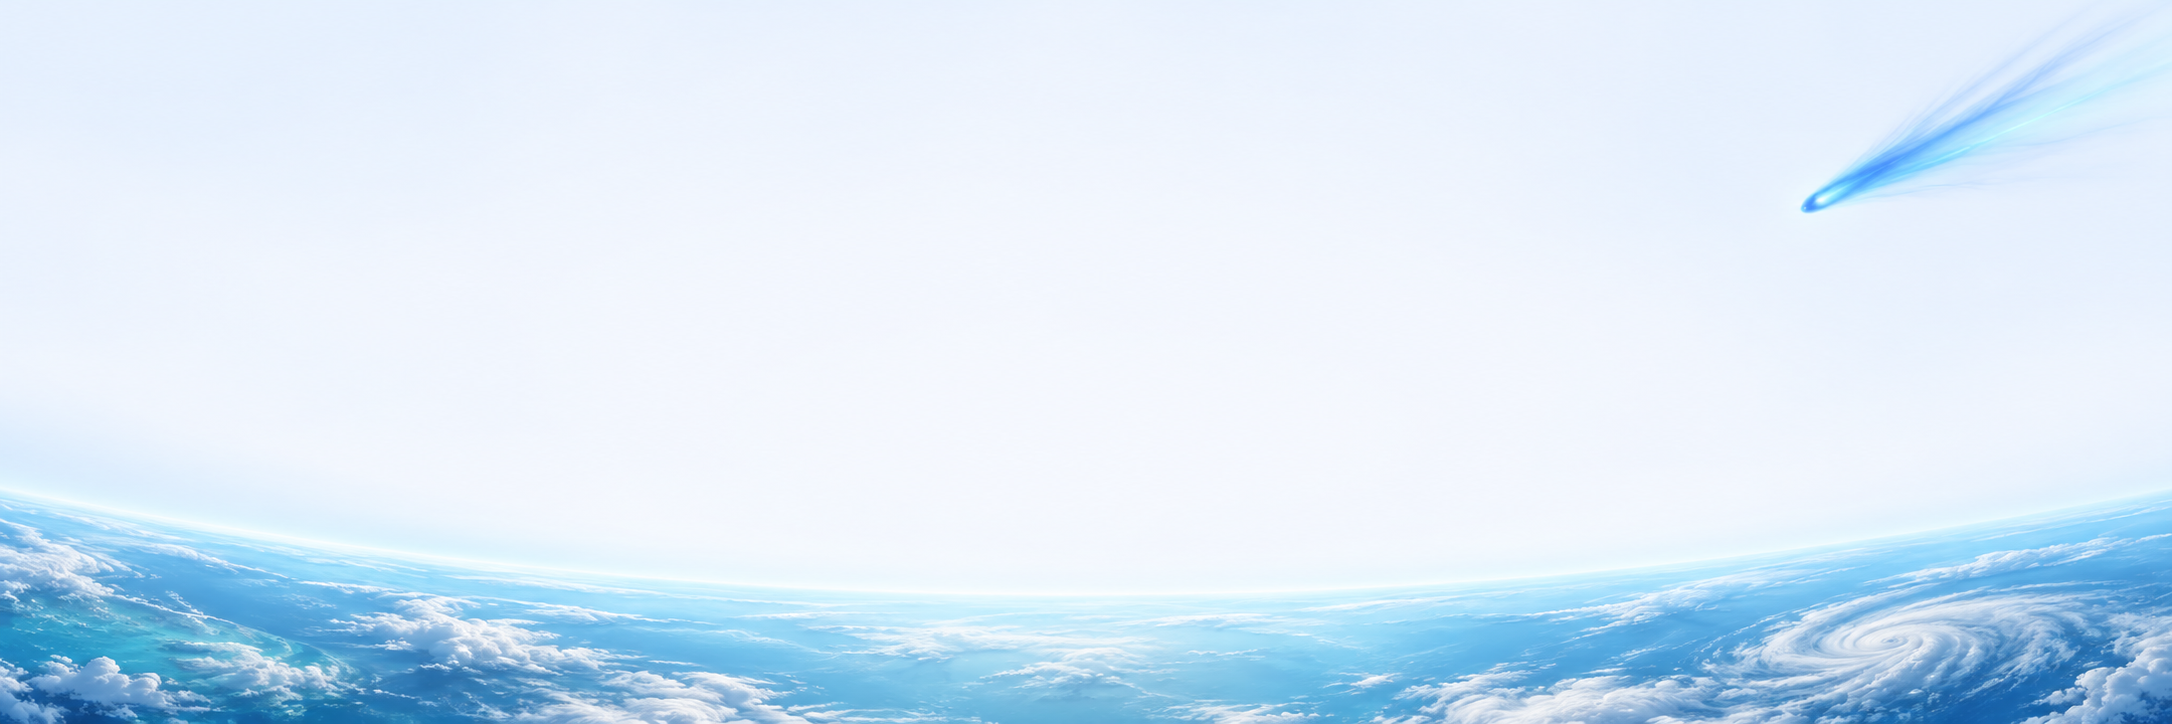
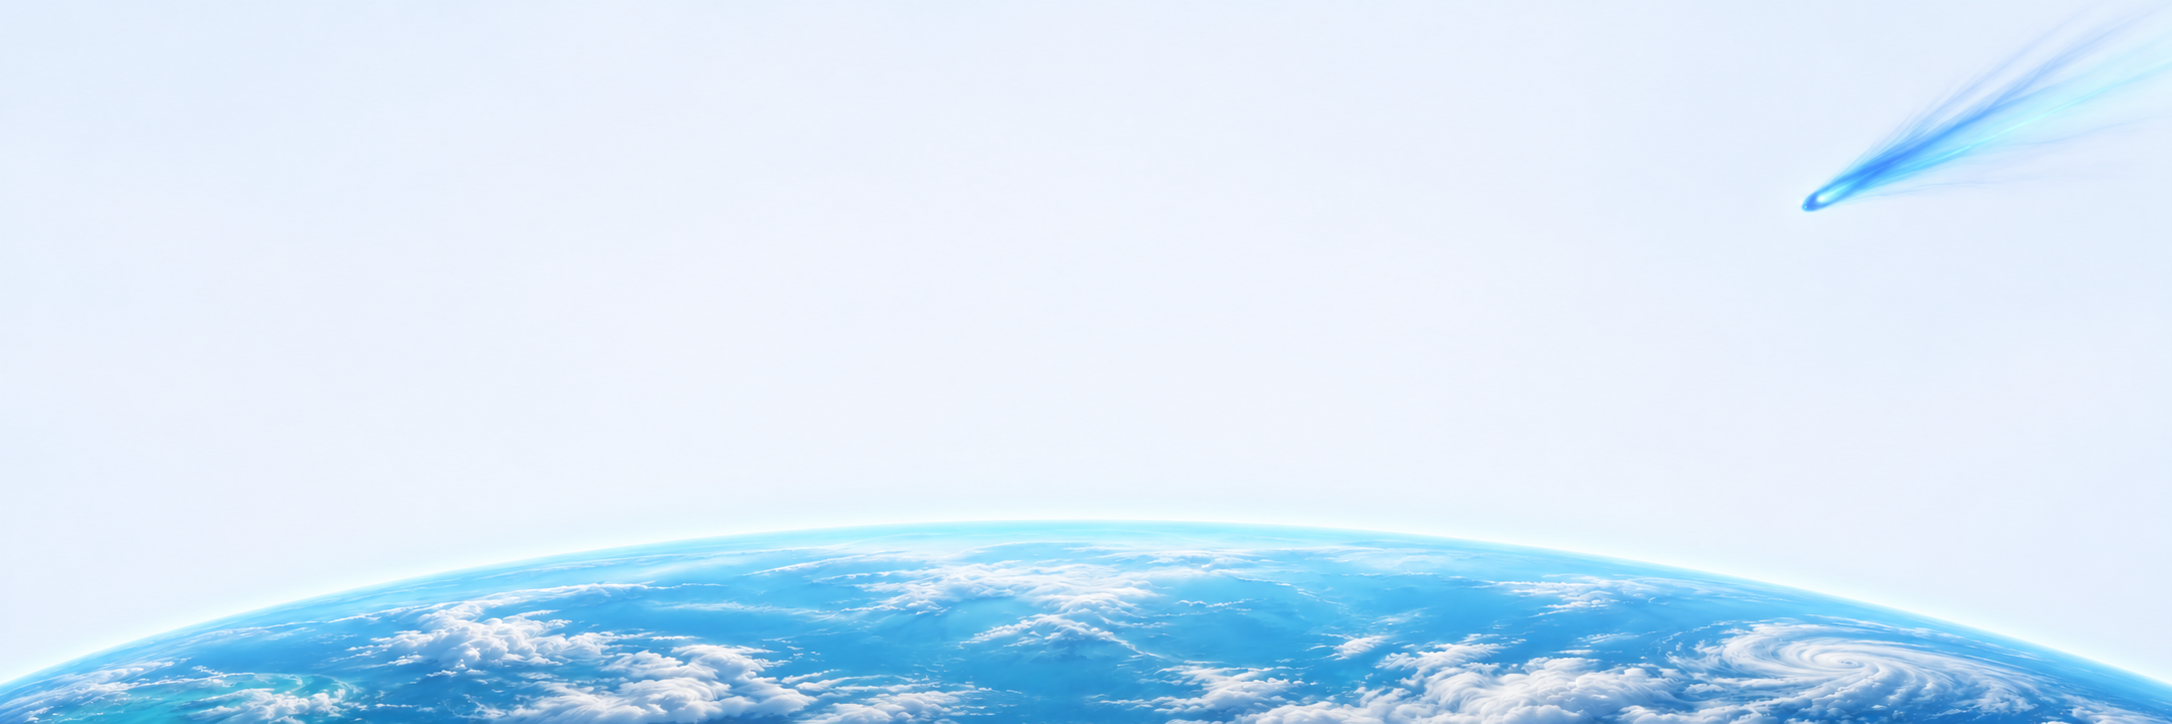
feat: add comet animation to call-to-action section and update light-mode background image

Changed region(s): [[0.0, 0.6685, 1.0, 1.0]]

diff --git a/assets/images/light-mode-prompts.md b/assets/images/light-mode-prompts.md
@@ -8,4 +8,10 @@ Use case: stylized-concept. Asset type: light-mode website hero background for C
 
 ## Call to action — `bg_planet_horizon_light.png`
 
+Revised with the built-in image editing tool to correct the planet's curvature:
+
+Use case: precise-object-edit. Edit target: the attached light-mode CTA background. Correct ONLY the planet and atmosphere curvature. The current horizon is concave like a bowl and physically wrong. Replace it with the OUTER TOP LIMB of a spherical planet seen from space: a broad convex dome rising highest at the CENTER and falling toward BOTH lower corners. Explicit geometry: at image center the cyan atmospheric horizon sits about 72% down the canvas; at the far left and right it drops to about 96% down. The planet surface and white cloud bands occupy the area BELOW that arch, with the sphere continuing out of frame through the BOTTOM edge. The thin atmospheric rim follows this same convex arc, never a bowl, never a valley. Keep the airy pearl-white / pale ice-blue palette, natural daylight, subtle blue oceans and white clouds, the small blue comet near upper-right, the panoramic 3:1 composition, and ample calm negative space above the horizon for centered dark text. No typography, logos, watermark, lens distortion or fisheye effects. Preserve the light-mode styling; do not flip the whole image upside down.
+
+Original generation prompt:
+
 Use case: stylized-concept. Asset type: light-mode website call-to-action section background for CometCMS. Generate a new premium cinematic space illustration natively designed for a WHITE/LIGHT website, panoramic 3:1 landscape, ideally 2400x800. Scene: sweeping curved horizon of a naturally sunlit pale-blue planet along the BOTTOM quarter, delicate white atmospheric clouds over soft blue oceans with a fine cyan-blue atmospheric rim; upper three quarters airy pearl-white fading into very pale ice-blue sky (#f6f8fb). One small elegant cobalt-blue comet in upper-right outer quarter, trailing fine blue-cyan wisps toward the upper-right corner. Composition: centered call-to-action heading and buttons will occupy middle 45 percent of canvas; this central region MUST remain very pale, calm and uncluttered. Place the strongest blue ocean detail along lower edges and comet at far right, avoiding the central text area. Refined scientific space art with delicate realistic clouds and soft natural daylight, restrained contrast, subtle blue haze. Edges blend toward pearl white. No text, typography, logos, watermark, UI, frame, dark space sky or inverted-looking gray shadows. Create graceful natural colors specifically for a light interface.
